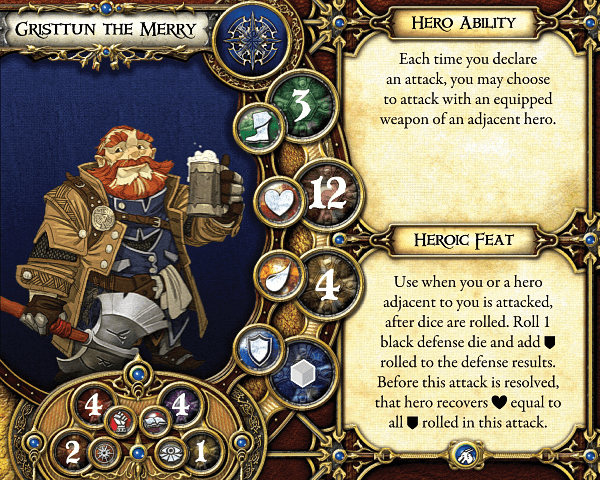
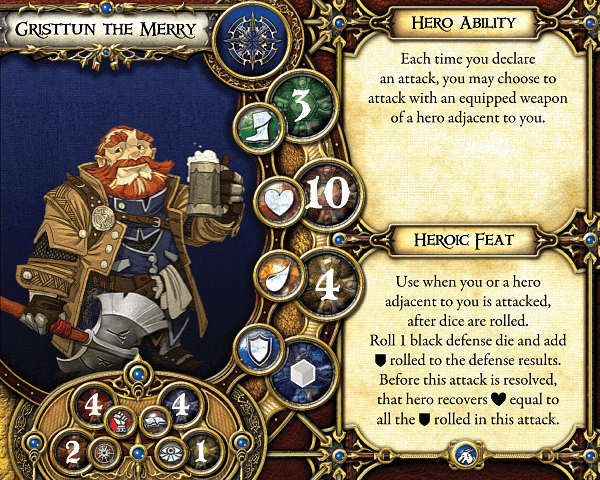
Implement MOTD Changes

Changed region(s): [[0.6, 0.5625, 0.96, 0.9062], [0.6, 0.0938, 0.96, 0.2812], [0.51, 0.3438, 0.6, 0.4375]]

diff --git a/data/heroes.js b/data/heroes.js
@@ -394,15 +394,15 @@
     "points": 30,
     "archetype": "Healer",
     "speed": 3,
-    "health": 12,
+    "health": 10,
     "stamina": 4,
     "defense": "Gray",
     "willpower": 2,
     "might": 4,
     "knowledge": 4,
     "awareness": 1,
-    "ability": "Each time you declare an attack, you may choose to attack with an equipped weapon of an adjacent hero.",
-    "feat": "Use when you or a hero adjacent to you is attacked, after dice are rolled. Roll 1 black defense die and add Shield rolled to the defense results. Before this attack is resolved, that hero recovers Heart equal to the all Shield rolled in this attack.",
+    "ability": "Each time you declare an attack, you may choose to attack with an equipped weapon of a hero adjacent to you.",
+    "feat": "Use when you or a hero adjacent to you is attacked, after dice are rolled. Roll 1 black defense die and add Shields rolled to the defense results. Before this attack is resolved, that hero recovers Heart equal to all the Shields rolled in this attack.",
     "expansion": "Maze of the Drakon",
     "image": "heroes/healers/gristtun-the-merry-motd.png",
     "xws": "gristtunthemerry"
@@ -1780,7 +1780,7 @@
     "knowledge": 2,
     "awareness": 4,
     "ability": "Each attack that targets you must roll 3 additional range beyond the normally required amount or the attack is a miss. If you are adjacent to any other hero, replace your brown defense die with gray defense die.",
-    "feat": "Use when you are targeted by an attack, before dice are rolled, you may move up to 3 spaces. After the movement, if you cannot be declared as the target of the attack, attack is considered a miss.",
+    "feat": "Use when you are targeted by an attack, before dice are rolled, you may move up to 3 spaces. After the movement, if you cannot be declared as the target of the attack, that attack is a miss.",
     "expansion": "Maze Of The Drakon",
     "image": "heroes/scouts/ravvis-the-ranger-motd.png",
     "xws": "ravvistheranger"

diff --git a/data/familiars.js b/data/familiars.js
@@ -137,7 +137,7 @@
     "defense": "-",
     "attack": "-",
     "type": "-",
-    "traits": "Roots of Protection may be targeted and affected by any attack and are Unmovable. When any figure in a space containing Roots of Protection is targeted or affected by a Melee attack, Roots of Protection are declared as the target of the attack instead.",
+    "traits": "Roots of Protection may be targeted and affected by any attack and are Unmovable. When any figure in a space containing Roots of Protection is attacked by a Melee attack, they are declared as the target of the attack instead.",
     "expansion": "Maze of the Drakon",
     "image": "familiars/roots-of-protection-motd.png",
     "xws": "rootsofprotection"
